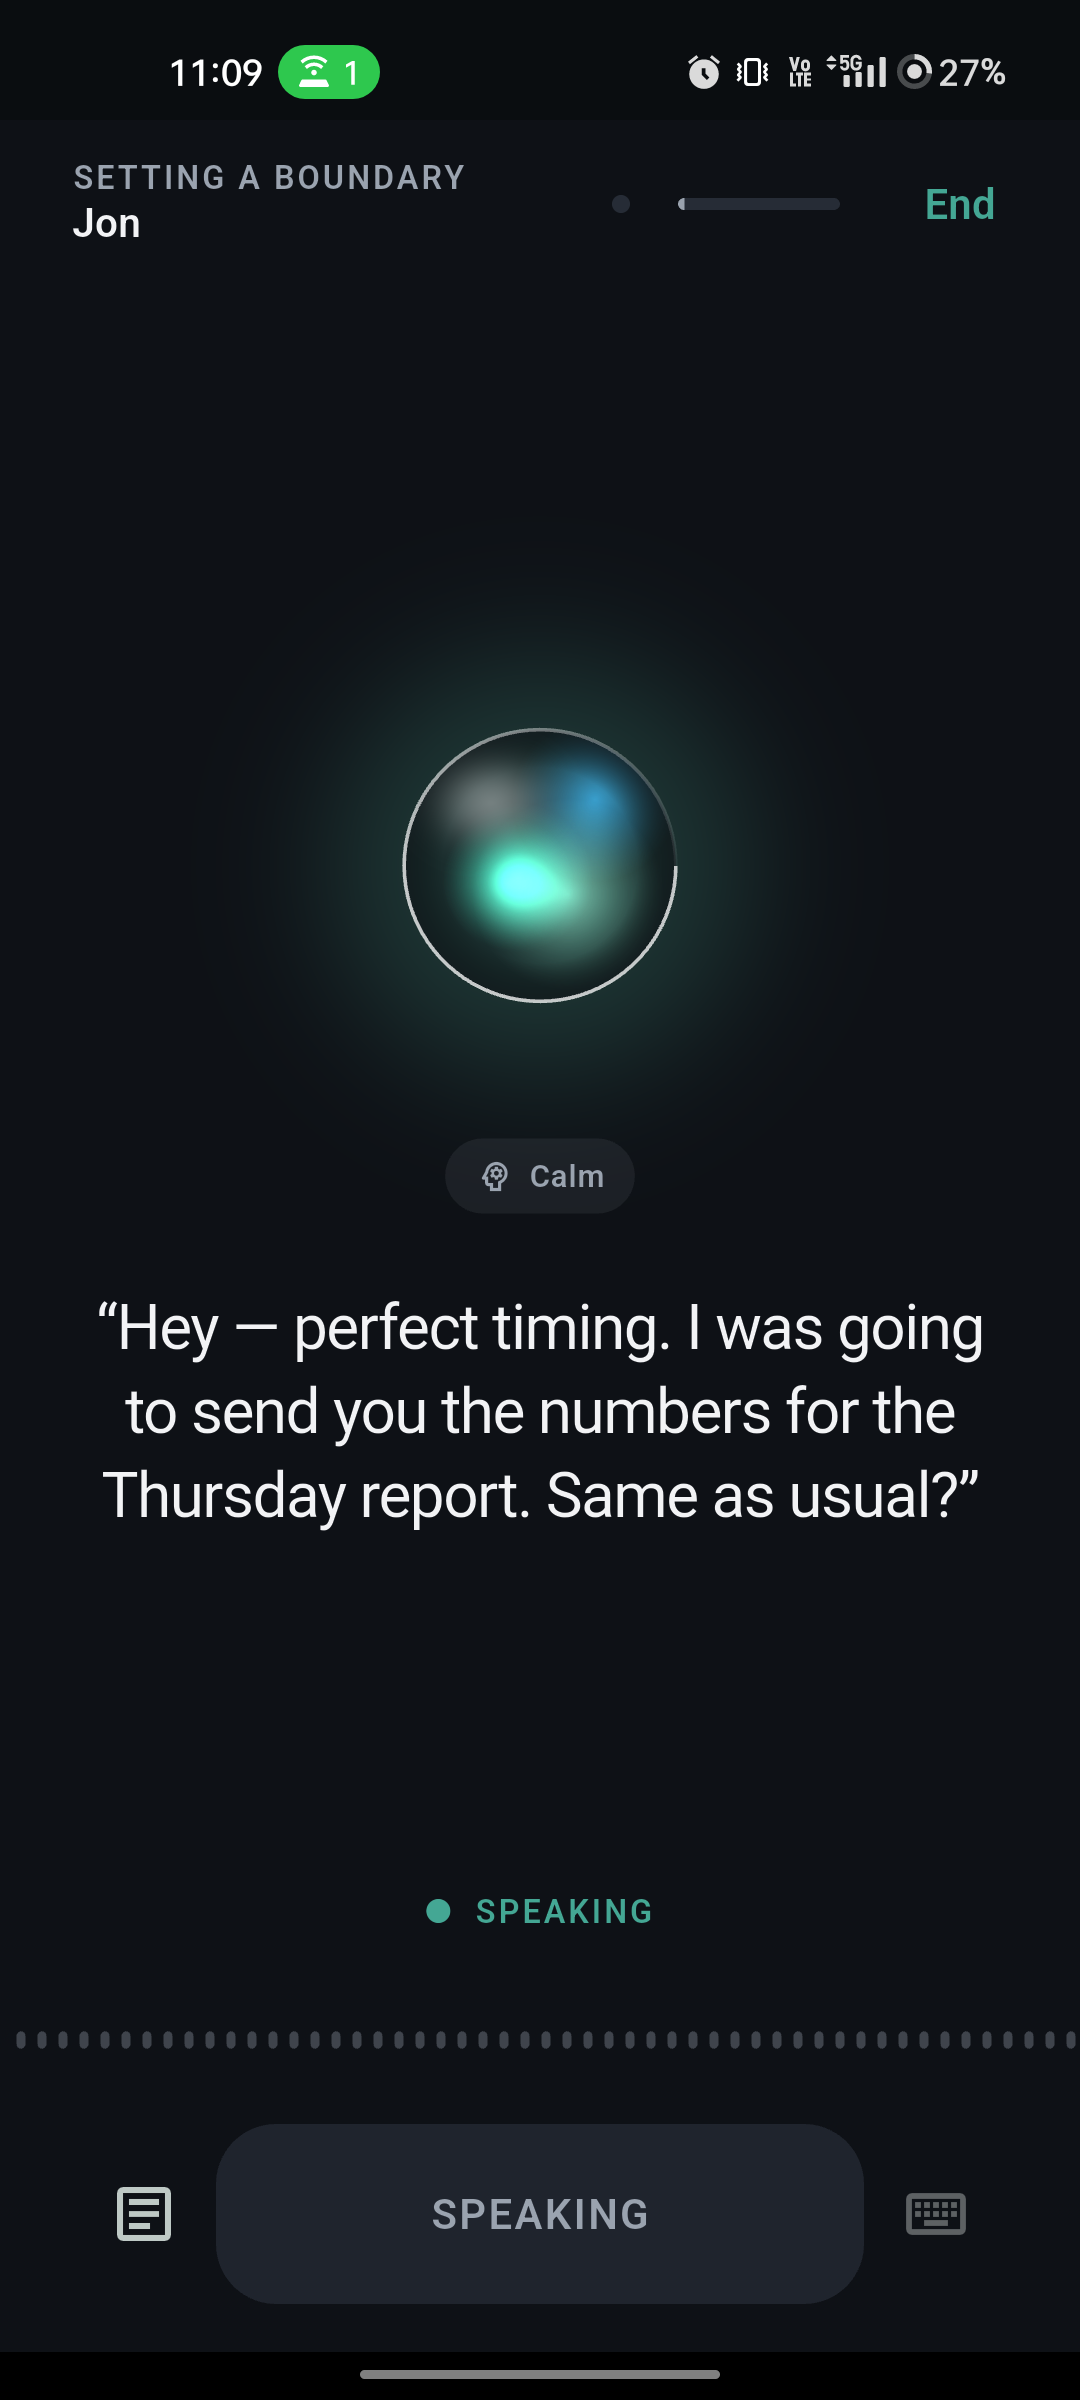
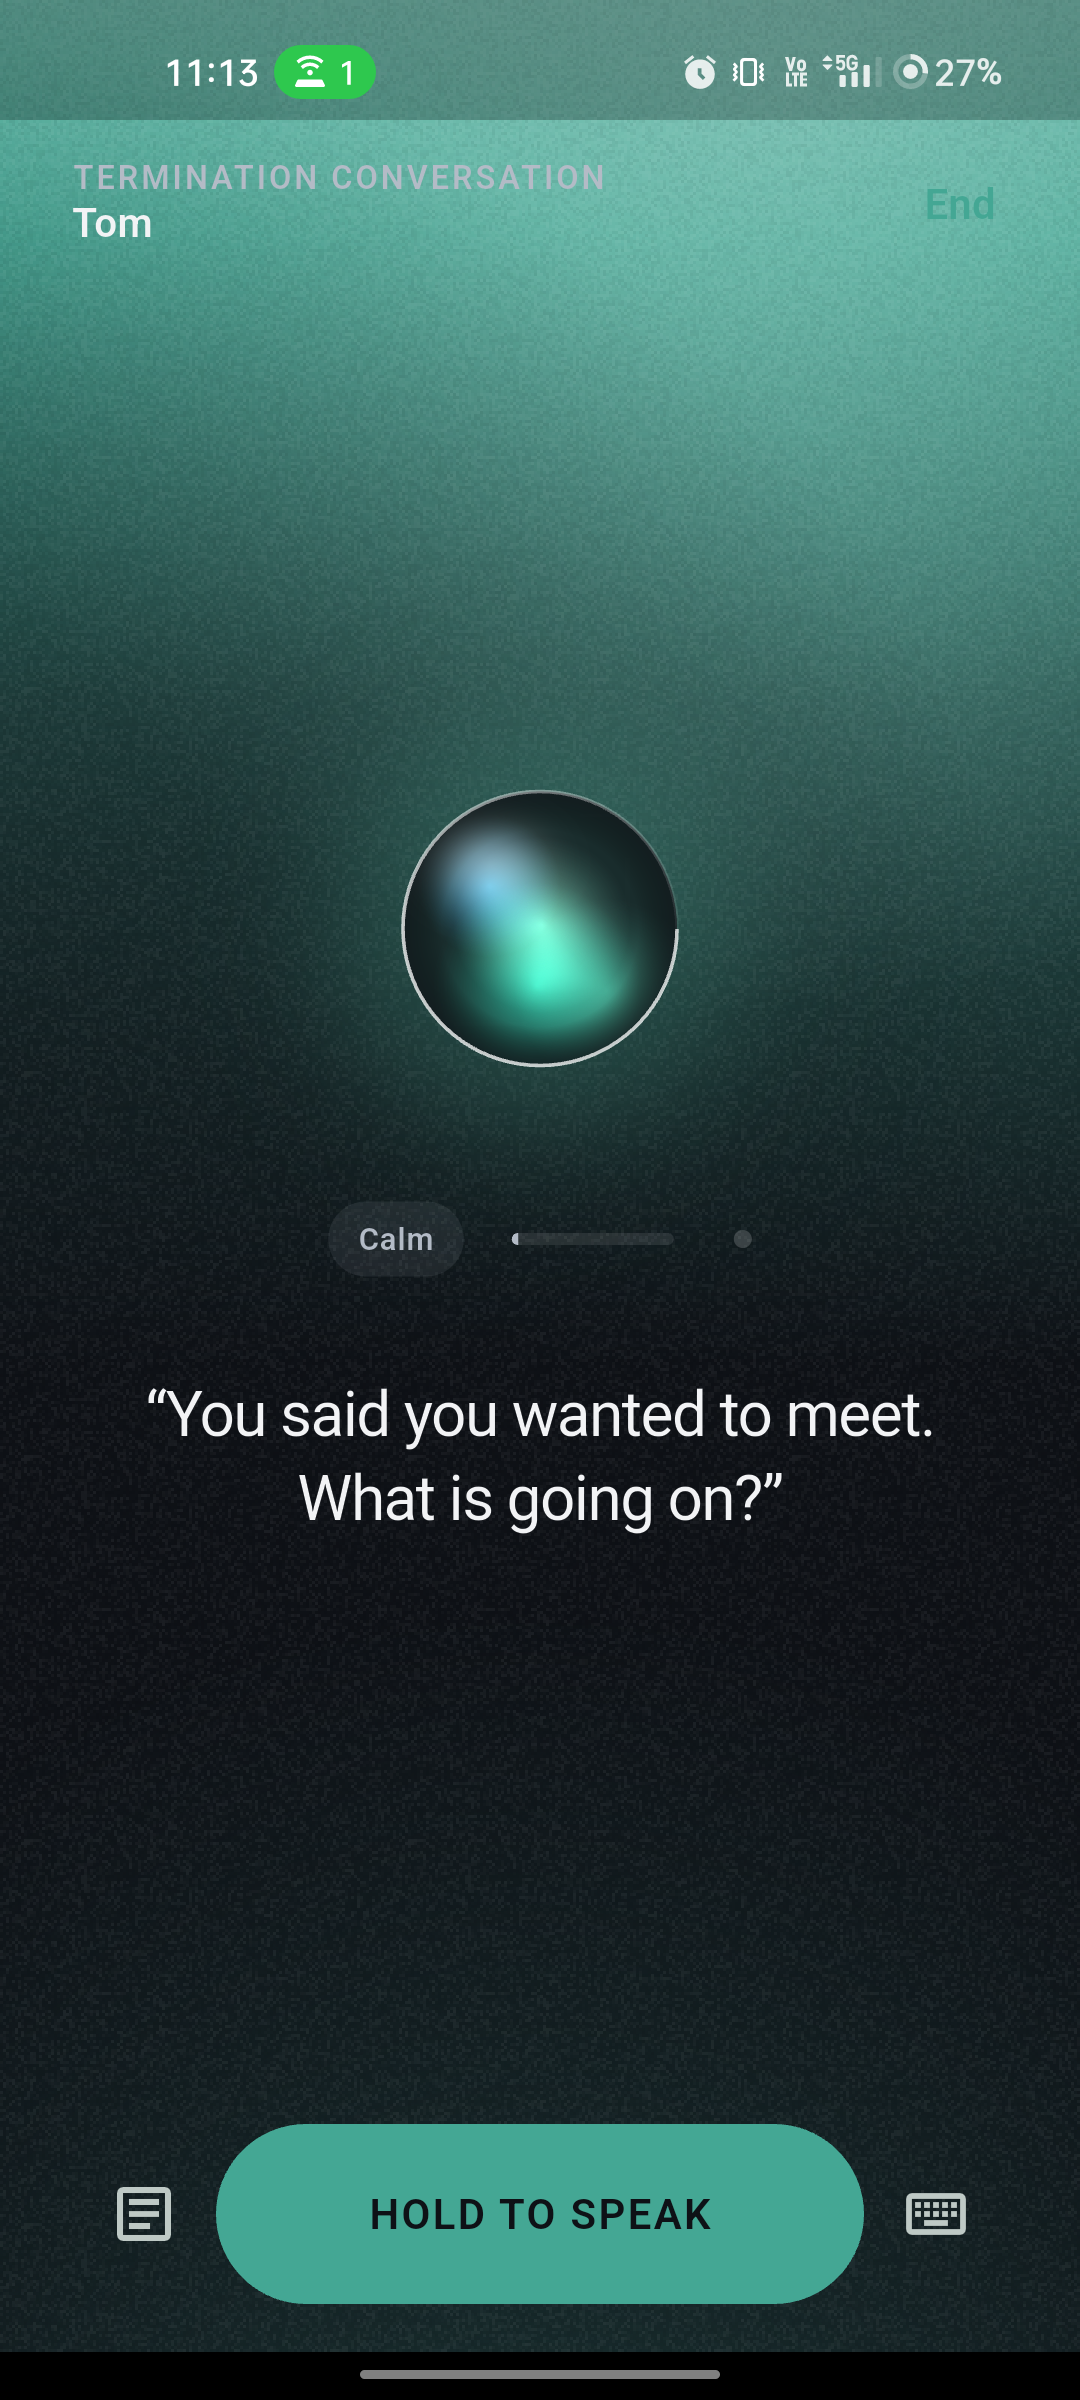
Tidy the chrome: aligned titles, quieter cockpit, readable text on the lit top
Screen titles now share the content's left edge; the You tabs sit on it too.
The cockpit lost its duplicate status line and its idle row of dots, and the
pressure meter and objection dots moved out of the app bar into one quiet
instrument row under the orb, so the scenario title no longer truncates.
Text buttons are ink, not accent, so End and Restore read on the lit top.
Muted text is lighter, bar tracks are neutral, the talk button is a pill with
ink on it.

Claude-Session: https://claude.ai/code/session_01CpDW6XEEVFjcnDFdE5tTPs

diff --git a/lib/features/practice/practice_screen.dart b/lib/features/practice/practice_screen.dart
@@ -112,7 +112,6 @@ class _PracticeScreenState extends ConsumerState<PracticeScreen> {
         if (!didPop) _end();
       },
       child: Scaffold(
-        backgroundColor: c.bg,
         appBar: AppBar(
           automaticallyImplyLeading: false,
           titleSpacing: VerbalTokens.lg,
@@ -136,13 +135,6 @@ class _PracticeScreenState extends ConsumerState<PracticeScreen> {
             ],
           ),
           actions: [
-            _Progress(
-              handled: _controller.engine.handledObjectionIds.length,
-              total: _controller.engine.scheduledObjections.length,
-            ),
-            const SizedBox(width: VerbalTokens.md),
-            _PressureMeter(pressure: state.pressure),
-            const SizedBox(width: VerbalTokens.sm),
             TextButton(onPressed: _end, child: const Text('End')),
             const SizedBox(width: VerbalTokens.sm),
           ],
@@ -155,11 +147,16 @@ class _PracticeScreenState extends ConsumerState<PracticeScreen> {
                     Expanded(
                       child: _showTranscript
                           ? _Transcript(turns: state.turns)
-                          : _ActorStage(state: state),
+                          : _ActorStage(
+                              state: state,
+                              handled: _controller
+                                  .engine.handledObjectionIds.length,
+                              total: _controller
+                                  .engine.scheduledObjections.length,
+                            ),
                     ),
                     if (state.lastPitfall != null)
                       _PitfallFlash(pitfall: state.lastPitfall!),
-                    _StatusRow(state: state),
                     Waveform(
                       levels: state.levels,
                       active: state.phase == VoicePhase.listening,
@@ -248,9 +245,15 @@ class _PracticeScreenState extends ConsumerState<PracticeScreen> {
 
 /// The other person's current line, given the whole stage.
 class _ActorStage extends StatelessWidget {
-  const _ActorStage({required this.state});
+  const _ActorStage({
+    required this.state,
+    required this.handled,
+    required this.total,
+  });
 
   final PracticeState state;
+  final int handled;
+  final int total;
 
   @override
   Widget build(BuildContext context) {
@@ -268,12 +271,23 @@ class _ActorStage extends StatelessWidget {
             listening: state.phase == VoicePhase.listening,
           ),
           const SizedBox(height: VerbalTokens.md),
-          Pill(
-            state.emotion.label,
-            icon: Icons.psychology_outlined,
-            tone: state.pressure > 0.6 ? c.signal : c.muted,
+          // One quiet line of instruments: mood, pressure, objections handled.
+          Row(
+            mainAxisAlignment: MainAxisAlignment.center,
+            children: [
+              Pill(
+                state.emotion.label,
+                tone: state.pressure > 0.6 ? c.signal : c.muted,
+              ),
+              const SizedBox(width: VerbalTokens.md),
+              _PressureMeter(pressure: state.pressure),
+              if (total > 0) ...[
+                const SizedBox(width: VerbalTokens.md),
+                _Progress(handled: handled, total: total),
+              ],
+            ],
           ),
-          const SizedBox(height: VerbalTokens.lg),
+          const SizedBox(height: VerbalTokens.xl),
           AnimatedSwitcher(
             duration: context.reduceMotion
                 ? Duration.zero
@@ -377,104 +391,6 @@ class _PitfallFlash extends StatelessWidget {
   }
 }
 
-/// LISTENING / THINKING / SPEAKING — the system state, always visible.
-class _StatusRow extends StatelessWidget {
-  const _StatusRow({required this.state});
-
-  final PracticeState state;
-
-  @override
-  Widget build(BuildContext context) {
-    final c = context.c;
-    final isLive = state.phase == VoicePhase.listening;
-    final color = switch (state.phase) {
-      VoicePhase.listening => c.signal,
-      VoicePhase.error => c.signal,
-      VoicePhase.speaking => c.accent,
-      _ => c.muted,
-    };
-
-    return Semantics(
-      liveRegion: true,
-      label: 'Status: ${state.phase.label.toLowerCase()}',
-      child: Padding(
-        padding: const EdgeInsets.only(bottom: VerbalTokens.sm),
-        child: Row(
-          mainAxisAlignment: MainAxisAlignment.center,
-          children: [
-            _Dot(color: color, pulsing: isLive),
-            const SizedBox(width: VerbalTokens.sm),
-            Text(
-              state.phase.label,
-              style: context.t.labelMedium?.copyWith(color: color),
-            ),
-          ],
-        ),
-      ),
-    );
-  }
-}
-
-class _Dot extends StatefulWidget {
-  const _Dot({required this.color, required this.pulsing});
-
-  final Color color;
-  final bool pulsing;
-
-  @override
-  State<_Dot> createState() => _DotState();
-}
-
-class _DotState extends State<_Dot> with SingleTickerProviderStateMixin {
-  late final AnimationController _c = AnimationController(
-    vsync: this,
-    duration: const Duration(milliseconds: 900),
-  );
-
-  @override
-  void didUpdateWidget(_Dot old) {
-    super.didUpdateWidget(old);
-    _sync();
-  }
-
-  @override
-  void initState() {
-    super.initState();
-    _sync();
-  }
-
-  void _sync() {
-    if (widget.pulsing && !context.reduceMotion) {
-      _c.repeat(reverse: true);
-    } else {
-      _c.stop();
-      _c.value = 1;
-    }
-  }
-
-  @override
-  void dispose() {
-    _c.dispose();
-    super.dispose();
-  }
-
-  @override
-  Widget build(BuildContext context) {
-    return FadeTransition(
-      opacity: Tween<double>(begin: 0.35, end: 1).animate(_c),
-      child: Container(
-        width: 8,
-        height: 8,
-        decoration: BoxDecoration(color: widget.color, shape: BoxShape.circle),
-      ),
-    );
-  }
-}
-
-/// How far through the conversation's resistance the user has got.
-///
-/// One dot per objection this difficulty will use — filled once handled. It
-/// answers "how long is this going to go on for", which is otherwise invisible.
 class _Progress extends StatelessWidget {
   const _Progress({required this.handled, required this.total});
 
@@ -501,7 +417,9 @@ class _Progress extends StatelessWidget {
                 height: 6,
                 decoration: BoxDecoration(
                   shape: BoxShape.circle,
-                  color: i < handled ? c.accent : c.line,
+                  color: i < handled
+                      ? c.accent
+                      : c.ink.withValues(alpha: 0.18),
                 ),
               ),
             ),
@@ -532,7 +450,7 @@ class _PressureMeter extends StatelessWidget {
             child: LinearProgressIndicator(
               value: value,
               minHeight: 4,
-              backgroundColor: c.line,
+              backgroundColor: c.ink.withValues(alpha: 0.10),
               valueColor:
                   AlwaysStoppedAnimation(value > 0.6 ? c.signal : c.muted),
             ),
@@ -592,7 +510,8 @@ class _Controls extends StatelessWidget {
                   height: VerbalTokens.tap + 12,
                   decoration: BoxDecoration(
                     color: listening ? c.signal : (busy ? c.raised : c.accent),
-                    borderRadius: BorderRadius.circular(VerbalTokens.radius),
+                    borderRadius:
+                        BorderRadius.circular(VerbalTokens.radiusPill),
                   ),
                   alignment: Alignment.center,
                   child: Text(
@@ -600,7 +519,7 @@ class _Controls extends StatelessWidget {
                         ? 'RELEASE TO SEND'
                         : (busy ? state.phase.label : 'HOLD TO SPEAK'),
                     style: context.t.labelLarge?.copyWith(
-                      color: busy ? c.muted : Colors.white,
+                      color: busy ? c.muted : c.bg,
                       letterSpacing: 0.8,
                     ),
                   ),

diff --git a/lib/app/theme.dart b/lib/app/theme.dart
@@ -26,8 +26,8 @@ class VerbalTokens {
   static const darkSurface = Color(0xFF171B22);
   static const darkRaised = Color(0xFF1F242D);
   static const darkInk = Color(0xFFF2F3F5);
-  static const darkMuted = Color(0xFF9AA3AF);
-  static const darkLine = Color(0xFF262C36);
+  static const darkMuted = Color(0xFFB3BBC6);
+  static const darkLine = Color(0xFF272B31);
 
   /// Accent — calm, professional, never neon.
   static const accentLight = Color(0xFF175E54);
@@ -400,7 +400,9 @@ ThemeData buildTheme(Brightness brightness) {
       surfaceTintColor: Colors.transparent,
       elevation: 0,
       centerTitle: false,
-      titleTextStyle: text.titleMedium,
+      // Titles sit on the same left edge as the page content below them.
+      titleSpacing: VerbalTokens.lg,
+      titleTextStyle: text.headlineSmall,
       iconTheme: IconThemeData(color: c.ink),
       systemOverlayStyle:
           isDark ? SystemUiOverlayStyle.light : SystemUiOverlayStyle.dark,
@@ -434,9 +436,19 @@ ThemeData buildTheme(Brightness brightness) {
     ),
     textButtonTheme: TextButtonThemeData(
       style: TextButton.styleFrom(
-        foregroundColor: c.accent,
+        // Ink, not accent: an accent label vanishes on the lit top of the page.
+        foregroundColor: c.ink,
         textStyle: text.labelLarge,
       ),
+    ),
+    tabBarTheme: TabBarThemeData(
+      dividerColor: Colors.transparent,
+      indicatorSize: TabBarIndicatorSize.label,
+      indicatorColor: c.accent,
+      labelColor: c.ink,
+      unselectedLabelColor: c.muted,
+      labelStyle: text.titleSmall,
+      unselectedLabelStyle: text.titleSmall,
     ),
     navigationBarTheme: NavigationBarThemeData(
       backgroundColor: c.surface.withValues(alpha: 0.72),

diff --git a/lib/shared/widgets.dart b/lib/shared/widgets.dart
@@ -165,7 +165,7 @@ class SkillBar extends StatelessWidget {
                 builder: (context, value, _) => LinearProgressIndicator(
                   value: value,
                   minHeight: 6,
-                  backgroundColor: c.line,
+                  backgroundColor: c.ink.withValues(alpha: 0.08),
                   valueColor: AlwaysStoppedAnimation(
                     score >= 70 ? c.accent : (score >= 45 ? c.muted : c.signal),
                   ),
@@ -219,6 +219,8 @@ class _WaveformPainter extends CustomPainter {
 
   @override
   void paint(Canvas canvas, Size size) {
+    // Nothing to say when nobody is talking: an idle row of dots is noise.
+    if (!active) return;
     const barWidth = 3.0;
     const gap = 4.0;
     final count = (size.width / (barWidth + gap)).floor();

diff --git a/lib/features/profile/profile_screen.dart b/lib/features/profile/profile_screen.dart
@@ -27,6 +27,10 @@ class ProfileScreen extends ConsumerWidget {
         appBar: AppBar(
           title: const Text('You'),
           bottom: const TabBar(
+            // Left-aligned with the title and the content, not stretched.
+            isScrollable: true,
+            tabAlignment: TabAlignment.start,
+            padding: EdgeInsets.only(left: VerbalTokens.sm),
             tabs: [Tab(text: 'Progress'), Tab(text: 'Settings')],
           ),
         ),
